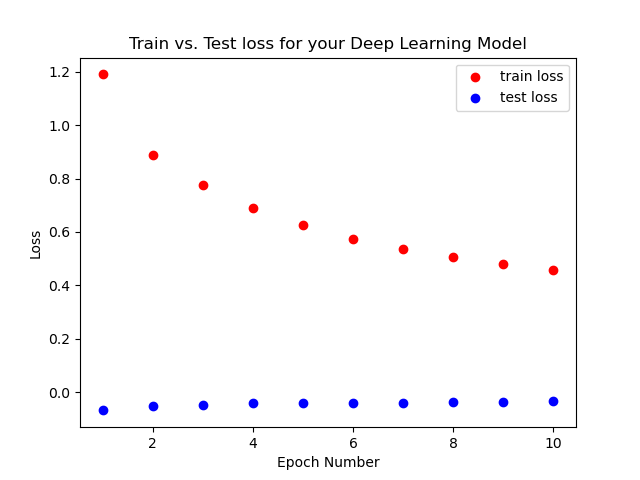
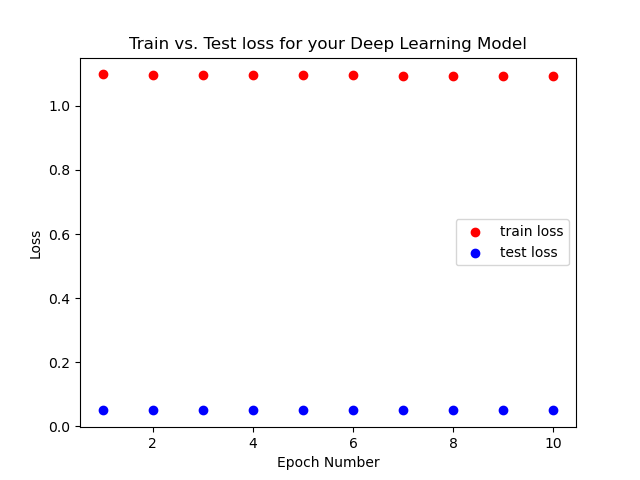
backend update classification problem

diff --git a/backend/trainer.py b/backend/trainer.py
@@ -1,9 +1,13 @@
+from dl_eval import compute_accuracy
+from utils import generate_acc_plot, generate_loss_plot, generate_train_time_csv
 from utils import ProblemType
+from constants import RESULT_CSV_PATH
 import torch #pytorch
 import torch.nn as nn
 import matplotlib.pyplot as plt
 import numpy as np
 import time
+import pandas as pd
 
 """
 This file contains helpful functions to aid in training and evaluation
@@ -17,7 +21,6 @@ https://towardsdatascience.com/building-rnn-lstm-and-gru-for-time-series-using-p
 def train_classification_model(model, train_loader, test_loader, optimizer, criterion, epochs):
     """
     Function for training pytorch model for classification. This function also times how long it takes to complete each epoch
-
     Args:
         model (nn.Module): Torch Model to train
         train_loader (torch.DataLoader): Train Dataset split into batches
@@ -29,7 +32,11 @@ def train_classification_model(model, train_loader, test_loader, optimizer, crit
     train_loss = [] #accumulate training loss over each epoch
     test_loss = [] #accumulate testing loss over each epoch
     epoch_time = [] #how much time it takes for each epoch
+    train_acc = [] #accuracy of training set
+    val_acc = [] #accuracy of test/validation set
     for epoch in range(epochs):
+        batch_train_acc = [] #find train accuracy for each batch
+        batch_test_acc = [] #find test accuracy for each batch
         start_time = time.time()
         model.train(True) #set model to train mode
         batch_loss = [] #accumulate list of loss per batch
@@ -37,6 +44,7 @@ def train_classification_model(model, train_loader, test_loader, optimizer, crit
             input, labels = data #each batch is (input, label) pair in dataloader
             optimizer.zero_grad() #zero out gradient for each batch
             output = model(input) #make prediction on input
+            batch_train_acc.append(compute_accuracy(output, labels))
             # output = torch.argmax(output, dim=2)
             output = torch.reshape(output, (output.shape[0], output.shape[2]))
             labels = labels.squeeze_()
@@ -46,23 +54,34 @@ def train_classification_model(model, train_loader, test_loader, optimizer, crit
             batch_loss.append(loss.detach().numpy())
         epoch_time.append(time.time() - start_time)
         mean_train_loss = np.mean(batch_loss)
+        mean_train_acc = np.mean(batch_train_acc)
         train_loss.append(mean_train_loss)
+        train_acc.append(mean_train_acc)
+        
         
         model.train(False) #test the model on test set
         batch_loss = []
         for i, data in enumerate(test_loader):
             input, labels = data 
-            loss_test = model(input)
-            batch_loss.append(loss_test.detach().numpy())
+            test_pred = model(input)
+            batch_test_acc.append(compute_accuracy(test_pred, labels))
+            batch_loss.append(test_pred.detach().numpy())
         mean_test_loss = np.mean(batch_loss)
+        mean_test_acc = np.mean(batch_test_acc)
         test_loss.append(mean_test_loss)
-        print(f"epoch: {epoch}, train loss: {train_loss[-1]}, test loss = {test_loss[-1]}")
-    return train_loss, test_loss, epoch_time
+        val_acc.append(mean_test_acc)
+        
+        print(f"epoch: {epoch}, train loss: {train_loss[-1]}, test loss: {test_loss[-1]}, train_acc: {mean_train_acc}, val_acc: {mean_test_acc}")
+    result_table = pd.DataFrame({"epoch": [i for i in range(1, epochs + 1)], "train_loss": train_loss, "test_loss": test_loss, "train_acc": train_acc, "val/test acc": val_acc})
+    print(result_table.head())
+    result_table.to_csv(RESULT_CSV_PATH)
+    generate_acc_plot(train_acc, val_acc)
+    generate_loss_plot(train_loss, test_loss)
+    generate_train_time_csv(epoch_time)
 
 def train_regression_model(model, train_loader, test_loader, optimizer, criterion, epochs):
     """
     Train Regression model in Pytorch. This function also times how long it takes to complete each epoch
-
     Args:
         model (nn.Module): Torch Model to train
         train_loader (torch.DataLoader): Train Dataset split into batches
@@ -97,8 +116,11 @@ def train_regression_model(model, train_loader, test_loader, optimizer, criterio
             batch_loss.append(loss_test.detach().numpy())
         test_loss.append(np.mean(batch_loss))
         print(f"epoch: {epoch}, train loss: {train_loss[-1]}, test loss = {test_loss[-1]}")
-    
-    return train_loss, test_loss, epoch_time
+    generate_loss_plot(train_loss, test_loss)
+    generate_train_time_csv(epoch_time)
+    result_table = pd.DataFrame({"epoch": [i for i in range(1, epochs + 1)], "train_loss": train_loss, "test_loss": test_loss, "train_acc": train_acc, "val/test acc": val_acc})
+    print(result_table.head())
+    result_table.to_csv(RESULT_CSV_PATH)
 
 def train_model(model, train_loader, test_loader, optimizer, criterion, epochs, problem_type):
     """

diff --git a/backend/driver.py b/backend/driver.py
@@ -3,6 +3,7 @@ import traceback
 import os 
 
 from utils import *
+from enum import Enum
 from constants import CSV_FILE_NAME, ONNX_MODEL
 from loss import LossFunctions
 from optimizer import get_optimizer
@@ -13,29 +14,29 @@ from webdriver import open_onnx_file
 from sklearn.datasets import load_iris, fetch_california_housing
 from sklearn.model_selection import train_test_split
 
+
 def get_default_dataset(dataset):
     """
     If user doesn't specify dataset
-
     Args:
-        dataset (): dataset using scikit learn built in functions like load_boston(), load_iris()
+        dataset_name (str): Which default dataset are you using (built in functions like load_boston(), load_iris())
     Returns:
         X: input (default dataset)
         y: target (default dataset)
     """
     input_df = pd.DataFrame(dataset.data)
     input_df['class'] = dataset.target
-    input_df.columns = dataset.feature_names
+    input_df.columns = dataset.feature_names + ['class']
     input_df.dropna(how="all", inplace=True) # remove any empty lines
-    y = input_df["class"]
-    X = input_df.drop("class", axis=1, inplace=False)
+    y = pd.Series(dataset.target)
+    X = input_df[dataset.feature_names]
+    print(f"iris dataset = {input_df.head()}")
     return X, y
     
 
 def drive(user_arch, criterion, optimizer_name, problem_type, target=None, features=None, default=False, test_size=0.2, epochs=5, shuffle=True):
     """
     Driver function/entrypoint into backend. Onnx file is generated containing model architecture for user to visualize in netron.app
-
     Args:
         user_arch (list): list that contains user defined deep learning architecture
         criterion (str): What loss function to use
@@ -56,6 +57,7 @@ def drive(user_arch, criterion, optimizer_name, problem_type, target=None, featu
             #If the user specifies no dataset, use iris as the default classification
             dataset = load_iris()
             X, y = get_default_dataset(dataset)
+            print(y.head())
         elif (default and problem_type.upper() == "REGRESSION"):
             #If the user specifies no dataset, use california housing as default regression
             dataset = fetch_california_housing()
@@ -64,6 +66,12 @@ def drive(user_arch, criterion, optimizer_name, problem_type, target=None, featu
             input_df = pd.read_csv(CSV_FILE_NAME)
             y = input_df[target]
             X = input_df[features]
+        
+        if (problem_type.upper() == "CLASSIFICATION"):
+            #label encode the categorical values to numbers
+            y = y.astype("category")
+            y = y.cat.codes 
+            print(y.head())
         
         #Convert to tensor
         X_train, X_test, y_train, y_test = train_test_split(X, y, test_size=test_size, random_state=0, shuffle=shuffle)
@@ -77,11 +85,7 @@ def drive(user_arch, criterion, optimizer_name, problem_type, target=None, featu
         criterion = LossFunctions.get_loss_obj(LossFunctions[criterion])
         print(f"loss criterion: {criterion}")
         train_loader, test_loader = get_dataloaders(X_train_tensor, y_train_tensor, X_test_tensor, y_test_tensor, batch_size=20)
-        train_loss, test_loss, epoch_time = train_model(model, train_loader, test_loader, optimizer, criterion, epochs, problem_type)
-        print(f"train loss: {train_loss}")
-        print(f"test loss: {test_loss}")
-        generate_loss_plot(train_loss, test_loss)
-        generate_train_time_csv(epoch_time)
+        train_model(model, train_loader, test_loader, optimizer, criterion, epochs, problem_type)
         pred, ground_truth = get_predictions(model, test_loader)
         torch.onnx.export(model, X_train_tensor, ONNX_MODEL)
         
@@ -89,9 +93,4 @@ def drive(user_arch, criterion, optimizer_name, problem_type, target=None, featu
         return traceback.format_exc() #give exception in string format
 
 if __name__ == "__main__":
-    print(drive(["nn.Linear(4, 10)", "nn.ReLU()", "nn.Linear(10, 3)"], "CELOSS", "SGD", problem_type="classification", default=True, epochs=10))
-    
-    
-    
-    
-    
+    print(drive(["nn.Linear(4, 10)", "nn.ReLU()", "nn.Linear(10, 3)", "nn.Softmax()"], "CELOSS", "SGD", problem_type="classification", default=True, epochs=10))

diff --git a/backend/utils.py b/backend/utils.py
@@ -1,4 +1,4 @@
-from constants import LOSS_VIZ, TRAIN_TIME_CSV
+from constants import LOSS_VIZ, ACC_VIZ, TRAIN_TIME_CSV
 import pandas as pd
 import torch
 import matplotlib.pyplot as plt
@@ -18,7 +18,6 @@ def get_tensors(X_train, X_test, y_train, y_test):
     """
     Helper function to convert X_train, X_test, y_train, y_test
     into tensors for dataloader
-
     Args:
         X_train (pd.DataFrame): X_train (train set)
         X_test (pd.DataFrame): X_test (test set)
@@ -61,7 +60,6 @@ def get_dataloaders(X_train_tensor, y_train_tensor, X_test_tensor, y_test_tensor
 def generate_loss_plot(train_loss, test_loss):
     """
     Given train/test loss from the training phase, plot the loss in a matplotlib plot
-
     Args:
         train_loss (list): train loss per epoch
         test_loss (list): test loss per epoch
@@ -76,10 +74,26 @@ def generate_loss_plot(train_loss, test_loss):
     plt.ylabel("Loss")
     plt.savefig(LOSS_VIZ)
 
+def generate_acc_plot(train_acc, val_acc):
+    """
+    Given train/test loss from the training phase, plot the accuracy in a matplotlib plot
+    Args:
+        train_loss (list): train loss per epoch
+        test_loss (list): test loss per epoch
+    """
+    assert (len(train_acc) == len(val_acc))
+    x_axis = [i for i in range(1, len(train_acc) + 1)]
+    plt.scatter(x_axis, train_acc, c="r", label="train loss")
+    plt.scatter(x_axis, val_acc, c="b", label="test loss")
+    plt.legend()
+    plt.title("Train vs. Test accuracy for your Deep Learning Model")
+    plt.xlabel("Epoch Number")
+    plt.ylabel("Accuracy")
+    plt.savefig(ACC_VIZ)
+
 def generate_train_time_csv(epoch_time):
     """
     Given the time taken to run each epoch, generate CSV of the DataFrame
-
     Args:
         epoch_time (list): array consisting of train time for each epoch
     """

diff --git a/backend/dl_eval.py b/backend/dl_eval.py
@@ -1,0 +1,20 @@
+import torch 
+import torch.nn as nn
+def compute_accuracy(predicted, actual):
+    """
+    Given a prediction (usually in logit form for classification problem), identify the 
+    most likely label (probabilistically). Usually, for multiclass (more than 2 classes), 
+    Softmax is applied at the end. For binary, apply Sigmoid activation at the last
+    Args:
+        predicted (torch.Tensor): For each row, what's the probability that the instance belongs to each of K classes
+        actual (torch.Tensor): actual class label
+    
+    NOTE: Since we have our training data in "batch form", we will be getting an accuracy for each batch in the dataloader
+    """
+    prediction = torch.argmax(predicted, dim=1) #identify index of the most likely class 
+    
+    performance = torch.where((prediction == actual), torch.Tensor([1.0]), torch.Tensor([0.0])) #for each row, did you predict correctly?
+    
+    batch_accuracy = torch.sum(performance)/prediction.size()[0]
+    
+    return batch_accuracy

diff --git a/backend/constants.py b/backend/constants.py
@@ -1,8 +1,10 @@
 CSV_FILE_NAME = "data.csv"
 CSV_FILE_PATH = f"./backend/{CSV_FILE_NAME}"
+RESULT_CSV_PATH = f"./backend/results.csv"
 TENSORBOARD_LOG = "runs/user_experiment"
 ONNX_MODEL = "my_deep_learning_model.onnx"
 LOSS_VIZ = "visualization/my_loss_plot.png"
+ACC_VIZ = "visualization/my_accuracy_plot.png"
 TRAIN_TIME_CSV = "epoch_times.csv"
 NETRON_URL = "https://netron.app/"
 OPEN_FILE_BUTTON = "open-file-button"
